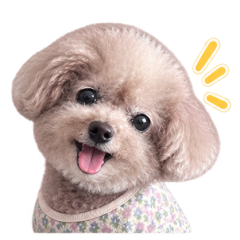
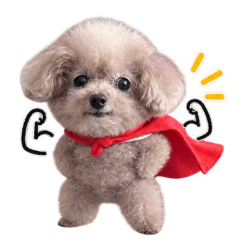
Update header to superhero photo

diff --git a/index.html b/index.html
@@ -1,6 +1,6 @@
 <!doctype html><html lang="zh-CN"><head><meta charset="utf-8"><meta name="viewport" content="width=device-width,initial-scale=1,viewport-fit=cover"><meta name="theme-color" content="#f8f7f3"><title>Effy 每日热量计算器</title><style>
 :root{font-family:-apple-system,BlinkMacSystemFont,'PingFang SC','Helvetica Neue',sans-serif;color:#27352f;background:#f8f7f3}*{box-sizing:border-box}body{margin:0;padding:20px 14px 60px}.wrap{max-width:680px;margin:auto}h1{font-size:25px;margin:0}p{line-height:1.55}.muted{color:#758079;font-size:12px}.head{display:flex;justify-content:space-between;align-items:center;gap:12px}.dog{width:56px;height:56px;object-fit:contain;flex:0 0 auto}.panel{background:white;border:1px solid #e6e9e3;border-radius:18px;padding:16px;margin-top:14px;box-shadow:0 3px 15px #253b2b08}.tot{font-size:37px;font-weight:750;color:#23775a;letter-spacing:-1px}.summary{display:grid;grid-template-columns:1fr 1fr;gap:10px}.stat{background:#f4f7f3;padding:12px;border-radius:12px}.stat b{font-size:21px}.bar{height:9px;background:#e6ebe6;border-radius:9px;overflow:hidden;margin:14px 0 7px}.fill{height:100%;width:0;background:#46a27b;transition:width .2s}.group-title{font-size:16px;font-weight:750;margin:20px 0 8px}.food{display:grid;grid-template-columns:minmax(0,1fr) 83px 70px;gap:8px;align-items:center;padding:10px 0;border-bottom:1px solid #eef0ec}.food:last-child{border:0}.name{font-size:14px;font-weight:600}.rate{font-size:11px;color:#819087;margin-top:3px}.kcal{text-align:right;font-size:13px;font-variant-numeric:tabular-nums}.kcal small{display:block;font-size:10px;color:#8a948d}input{width:100%;min-width:0;border:1px solid #dce3dc;border-radius:9px;padding:10px 7px;font-size:16px;background:#fff;color:#26372d;text-align:center}input:focus{outline:2px solid #7bb99d;border-color:transparent}.settings{display:flex;align-items:center;justify-content:space-between;gap:10px}.settings input{width:85px}.actions{display:flex;gap:8px;flex-wrap:wrap;margin-top:14px}button{border:0;background:#287b5b;color:white;padding:12px 15px;border-radius:11px;font-size:14px;font-weight:650;cursor:pointer}button.alt{background:#e9f1eb;color:#29664d}button.warn{background:#f6eae5;color:#9b5744}.note{font-size:12px;color:#6c786f;line-height:1.6}.day{font-size:13px;color:#617166}.editable{display:flex;align-items:center;gap:8px;margin-top:8px}.editable input{width:80px;font-size:14px;padding:6px}.badge{font-size:11px;color:#557c66;background:#edf5ef;border-radius:6px;padding:3px 6px}details summary{cursor:pointer;color:#37765b;font-size:13px}#status{min-height:18px;margin-top:8px;font-size:12px;color:#427f5c}@media(max-width:360px){.food{grid-template-columns:minmax(0,1fr) 70px 60px;gap:5px}.name{font-size:13px}}
-.quick-total{position:sticky;top:0;z-index:5;background:#eef5ef;border:1px solid #dce9df;border-radius:12px;padding:10px 12px;margin-top:12px;font-size:13px;color:#466351;display:flex;align-items:center;gap:7px;flex-wrap:wrap}.quick-total strong{font-size:22px;color:#23775a}.quick-total span{margin-left:auto;font-size:12px}.group-title{margin:0 0 8px}#groups .panel:first-child{margin-top:10px}</style></head><body><main class="wrap"><div class="head"><div><h1>🐾 Effy 每日热量计算器</h1><p class="muted" style="margin:5px 0">输入食物克数，自动计算当天热量</p></div><img class="dog" src="effy.png?v=2" alt="Effy"></div>
+.quick-total{position:sticky;top:0;z-index:5;background:#eef5ef;border:1px solid #dce9df;border-radius:12px;padding:10px 12px;margin-top:12px;font-size:13px;color:#466351;display:flex;align-items:center;gap:7px;flex-wrap:wrap}.quick-total strong{font-size:22px;color:#23775a}.quick-total span{margin-left:auto;font-size:12px}.group-title{margin:0 0 8px}#groups .panel:first-child{margin-top:10px}</style></head><body><main class="wrap"><div class="head"><div><h1>🐾 Effy 每日热量计算器</h1><p class="muted" style="margin:5px 0">输入食物克数，自动计算当天热量</p></div><img class="dog" src="effy.png?v=3" alt="Effy"></div>
 <div class="quick-total">今日累计 <strong id="quick-total">0.0</strong> kcal <span>↓ 直接填写食物克数</span></div><div id="groups"></div><section class="panel" id="summary-panel"><div class="head"><span class="day" id="date"></span><span class="badge">本机自动保存</span></div><div style="margin-top:10px"><span class="muted">今日累计</span><div><span class="tot" id="total">0.0</span> <span>kcal</span></div></div><div class="bar"><div class="fill" id="fill"></div></div><div class="summary"><div class="stat"><div class="muted">距离参考热量</div><b id="gap">150.0</b><div class="muted" id="gaplabel">还差 kcal</div></div><div class="stat"><div class="muted">全价主食热量占比</div><b id="ratio">—</b><div class="muted">仅作饮食结构参考</div></div></div><div class="settings" style="margin-top:15px"><label for="target">每日参考热量（kcal）</label><input type="number" min="1" step="1" id="target" value="150"></div><div class="actions"><button id="copy">复制今日记录</button><button class="alt" id="download">导出记录</button><button class="warn" id="clear">清空今日克数</button></div><div id="status" aria-live="polite"></div></section>
 
 <section class="panel"><details><summary>调整食物热量系数（可按包装标签修改）</summary><p class="note">所有热量系数单位为 kcal/g。修改后会自动保存到本机浏览器（若浏览器允许本地存储）。</p><div id="rates"></div><div class="actions"><button class="alt" id="restore">恢复默认热量系数</button></div></details></section>
